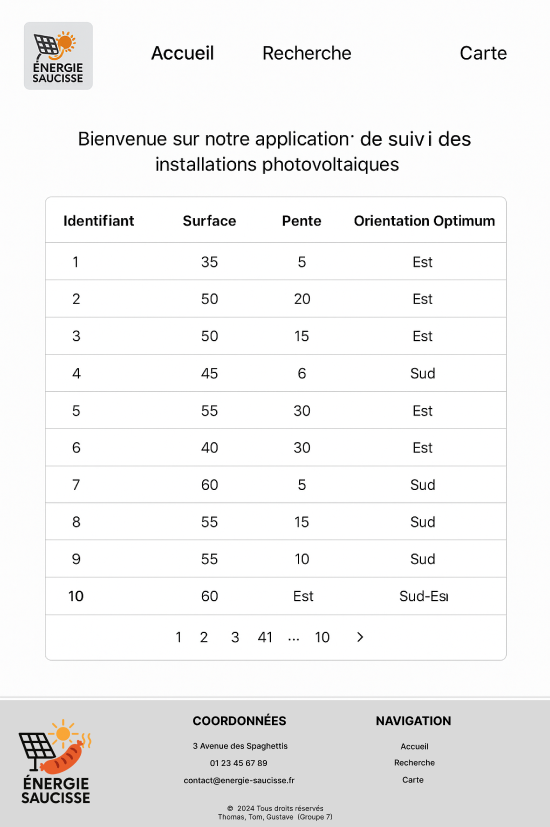
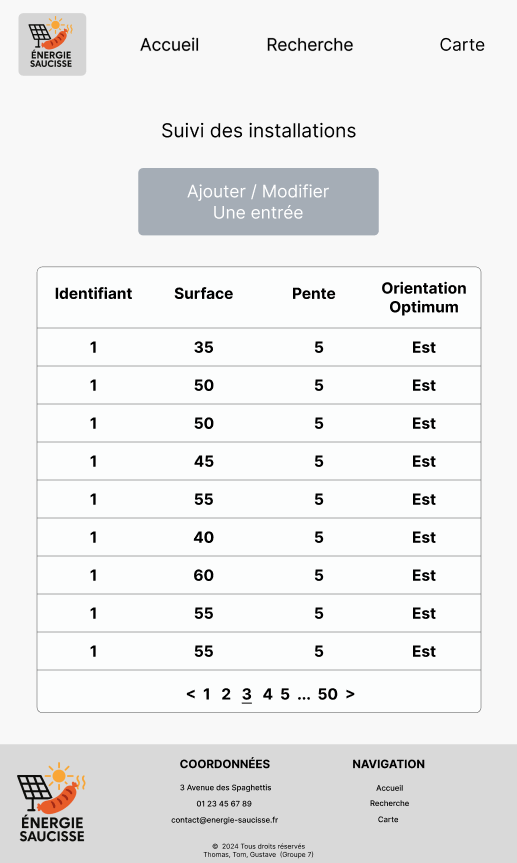
installation

diff --git a/front/css/installation.css b/front/css/installation.css
@@ -1,0 +1,81 @@
+.page-installations {
+    background: linear-gradient(to bottom right, #fff5d1, #ffe082);
+    padding: 3rem 1rem;
+    border-radius: 24px;
+    margin: 2rem auto;
+    max-width: 1200px;
+    box-shadow: 0 10px 20px rgba(0,0,0,0.2);
+    font-family: 'Poppins', sans-serif;
+    color: #3b240b;
+}
+
+.page-installations h2 {
+    text-align: center;
+    font-size: 2.4rem;
+    color: #7c4d00;
+    font-weight: 800;
+    margin-bottom: 2rem;
+    text-shadow: 1px 1px 3px rgba(0,0,0,0.1);
+}
+
+.bouton-ajout {
+    display: block;
+    margin: 0 auto 2rem auto;
+    background: #cfd8dc;
+    color: #3b240b;
+    padding: 1rem 2rem;
+    font-size: 1.1rem;
+    font-weight: bold;
+    border: none;
+    border-radius: 16px;
+    box-shadow: 0 6px 14px rgba(0,0,0,0.2);
+    transition: transform 0.2s ease;
+    text-align: center;
+    text-decoration: none;
+    width: fit-content;
+}
+
+.bouton-ajout:hover {
+    transform: scale(1.05);
+    background-color: #b0bec5;
+}
+
+.table-installations {
+    width: 100%;
+    border-collapse: collapse;
+    background-color: #fff8e1;
+    border-radius: 12px;
+    overflow: hidden;
+    box-shadow: 0 8px 16px rgba(0,0,0,0.15);
+}
+
+.table-installations th, .table-installations td {
+    padding: 1rem;
+    text-align: center;
+    border-bottom: 1px solid #ddd;
+    font-size: 1.05rem;
+}
+
+.table-installations th {
+    background-color: #ffecb3;
+    color: #5d3c00;
+    font-weight: bold;
+}
+
+.pagination {
+    margin-top: 1.5rem;
+    text-align: center;
+    font-size: 1.2rem;
+}
+
+.pagination a {
+    margin: 0 0.4rem;
+    color: #ff8811;
+    font-weight: bold;
+    text-decoration: none;
+}
+
+.pagination a.current {
+    color: #7c4d00;
+    text-decoration: underline;
+}

diff --git a/front/routeur.php b/front/routeur.php
@@ -1,20 +1,27 @@
 <?php
 $page = $_GET['page'] ?? 'client/accueil';
 
-switch ($page) {
-	case 'client/accueil':
-		require_once '../back/controllers/AccueilController.php';
-		break;
-	case 'client/recherche':
-		require_once '../back/controllers/RechercheController.php';
-		break;
-	case 'back/accueil':
-		require_once '../back/controllers/AdminAccueilController.php';
-		break;
-	case 'back/liste':
-		require_once '../back/controllers/AdminListeController.php';
-		break;
+if (
+    strpos($page, 'client/') !== 0 &&
+    strpos($page, 'back/') !== 0 &&
+    strpos($page, 'back-office/') !== 0
+) {
+    $page = 'client/' . $page;
+}
 
-	default:
-		echo "<h1>Page introuvable</h1>";
+switch ($page) {
+    case 'client/accueil':
+        require_once '../back/controllers/AccueilController.php';
+        break;
+    case 'client/recherche':
+        require_once '../back/controllers/RechercheController.php';
+        break;
+    case 'client/carte':
+        require_once '../back/controllers/CarteController.php';
+        break;
+    case 'back-office/installation':
+        require_once '../back/controllers/InstallationController.php';
+        break;
+    default:
+        echo "<h1>Page introuvable</h1>";
 }

diff --git a/front/views/back-office/installation.php b/front/views/back-office/installation.php
@@ -1,0 +1,39 @@
+<div class="page-installations">
+    <h2>Suivi des installations</h2>
+
+    <a href="formulaire.php" class="bouton-ajout">Ajouter / Modifier<br>Une entrée</a>
+
+    <table class="table-installations">
+        <thead>
+        <tr>
+            <th>Identifiant</th>
+            <th>Surface</th>
+            <th>Pente</th>
+            <th>Orientation<br>Optimum</th>
+        </tr>
+        </thead>
+        <tbody>
+        <?php foreach ($installations as $i): ?>
+            <tr>
+                <td><?= $i['id'] ?></td>
+                <td><?= $i['surface'] ?></td>
+                <td><?= $i['pente'] ?></td>
+                <td><?= $i['orientation'] ?></td>
+            </tr>
+        <?php endforeach; ?>
+        </tbody>
+    </table>
+
+    <div class="pagination">
+        <a href="#">‹</a>
+        <a href="#">1</a>
+        <a href="#">2</a>
+        <a class="current" href="#">3</a>
+        <a href="#">4</a>
+        <a href="#">5</a>
+        <a href="#">50</a>
+        <a href="#">›</a>
+    </div>
+    <link rel="stylesheet" href="css/footer-header.css">
+    <link rel="stylesheet" href="css/installation.css">
+</div>

diff --git a/back/controllers/InstallationController.php b/back/controllers/InstallationController.php
@@ -2,15 +2,22 @@
 require_once __DIR__ . '/../models/InstallationModel.php';
 require_once __DIR__ . '/../core/Database.php';
 
-header('Content-Type: application/json');
-
 $model = new InstallationModel();
 
 $filtres = [
-	'onduleur' => $_GET['onduleur'] ?? null,
-	'panneau' => $_GET['panneau'] ?? null,
-	'departement' => $_GET['departement'] ?? null
+    'onduleur' => $_GET['onduleur'] ?? null,
+    'panneau' => $_GET['panneau'] ?? null,
+    'departement' => $_GET['departement'] ?? null
 ];
 
-$data = $model->getInstallations($filtres);
-echo json_encode($data);
+$data = $model->getAll($filtres);
+
+if (!empty($_GET['ajax'])) {
+    header('Content-Type: application/json');
+    echo json_encode($data);
+    exit;
+}
+
+require_once __DIR__ . '/../../front/views/layout/header.php';
+require_once __DIR__ . '/../../front/views/back-office/installation.php';
+require_once __DIR__ . '/../../front/views/layout/footer.php';

diff --git a/front/views/client/accueil.php b/front/views/client/accueil.php
@@ -1,12 +1,11 @@
 <div class="container-fluid px-0">
     <div class="presentation-texte">
-        <h2>Bienvenue sur notre application solaire 🌭</h2>
+        <h2>Bienvenue sur énergie saucisse 🌭</h2>
         <p>
             Cette plateforme vous permet de suivre les installations photovoltaïques chez les particuliers.<br>
             Accédez à des statistiques dynamiques, explorez les données par filtres ou visualisez-les directement sur une carte interactive !
         </p>
     </div>
-
 
     <div id="carouselPresentation" class="my-5">
         <div class="carousel-track">

diff --git a/front/views/layout/header.php b/front/views/layout/header.php
@@ -17,6 +17,7 @@
             <a href="index.php?page=accueil" class="btn btn-outline-light btn-sm">Accueil</a>
             <a href="index.php?page=recherche" class="btn btn-outline-light btn-sm">Recherche</a>
             <a href="index.php?page=carte" class="btn btn-outline-light btn-sm">Carte</a>
+            <a href="index.php?page=back-office/installation" class="btn btn-outline-light btn-sm">installation admin</a>
         </nav>
     </div>
 </header>

diff --git a/front/views/layout/footer.php b/front/views/layout/footer.php
@@ -3,5 +3,5 @@
 <footer class="footer text-center">
     <img src="images/logo1.jpg" alt="Logo" class="footer-logo mb-3">
     <h5 class="mb-1">Projet CIR2 - 2025</h5>
-    <p class="mb-0">Tom, Thomas, Gugu - Groupe CIR2</p>
+    <p class="mb-0">Tom, Thomas, Gugu - Groupe 7 CIR2</p>
 </footer>
